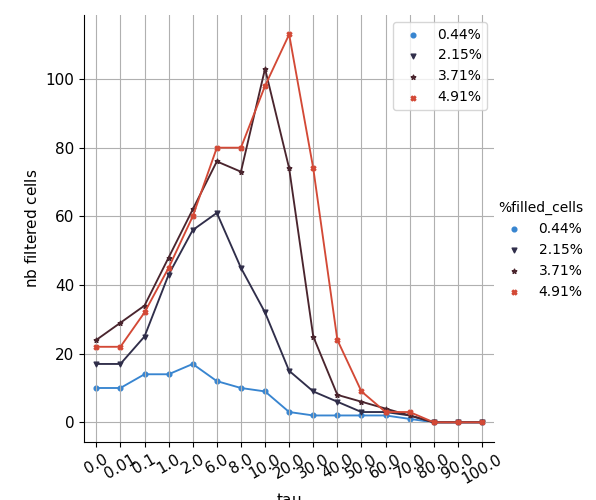
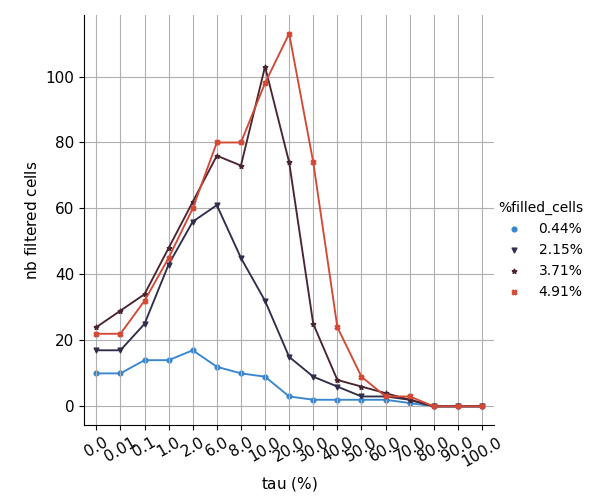
fixed padding in plot

diff --git a/stats/tau_cellcoverage_filteredvec.py b/stats/tau_cellcoverage_filteredvec.py
@@ -5,7 +5,7 @@ import matplotlib.pyplot as plt
 outdir = './img-tau[0-100]/'
 csv_file = 'stats.csv'
 
-plt.rcParams["figure.figsize"] = (6,5)
+plt.rcParams["figure.figsize"] = (8,7)
 df = pd.read_csv(csv_file)
 # print(df)
 df['tau'] = 100. * df['tau']
@@ -18,10 +18,12 @@ print(dfvv)
 
 g = sns.catplot(data=dfvv, x='tau', y='val', hue='%filled_cells',  kind='point', scale = 0.5,
     palette=sns.color_palette('icefire', 4),  markers=['o', 'v', '*', 'X'])
+
 g.set_xticklabels(rotation=30)
-plt.xlabel(r'$\mathrm{tau}$', fontsize = 11)
+plt.subplots_adjust(bottom=0.15)
+plt.xlabel(r'$\mathrm{tau\ (\%)}$', fontsize = 11)
 plt.ylabel(r'$\mathrm{nb\ filtered\ vectors}$', fontsize = 11)
-plt.legend(loc='best')
+# plt.legend(loc='best')
 plt.xticks(fontsize = 11)
 plt.yticks(fontsize = 11)
 plt.grid()  #just add this
@@ -36,10 +38,12 @@ print(dfcc)
 
 g = sns.catplot(data=dfcc, x='tau', y='val', hue='%filled_cells',  kind='point', scale = 0.5,
     palette=sns.color_palette('icefire', 4),  markers=['o', 'v', '*', 'X'])
+
 g.set_xticklabels(rotation=30)
-plt.xlabel(r'$\mathrm{tau}$', fontsize = 11)
+plt.subplots_adjust(bottom=0.15)
+plt.xlabel(r'$\mathrm{tau\ (\%)}$', fontsize = 11)
 plt.ylabel(r'$\mathrm{nb\ filtered\ cells}$', fontsize = 11)
-plt.legend(loc='best')
+# plt.legend(loc='best')
 plt.xticks(fontsize = 11)
 plt.yticks(fontsize = 11)
 plt.grid()  #just add this
